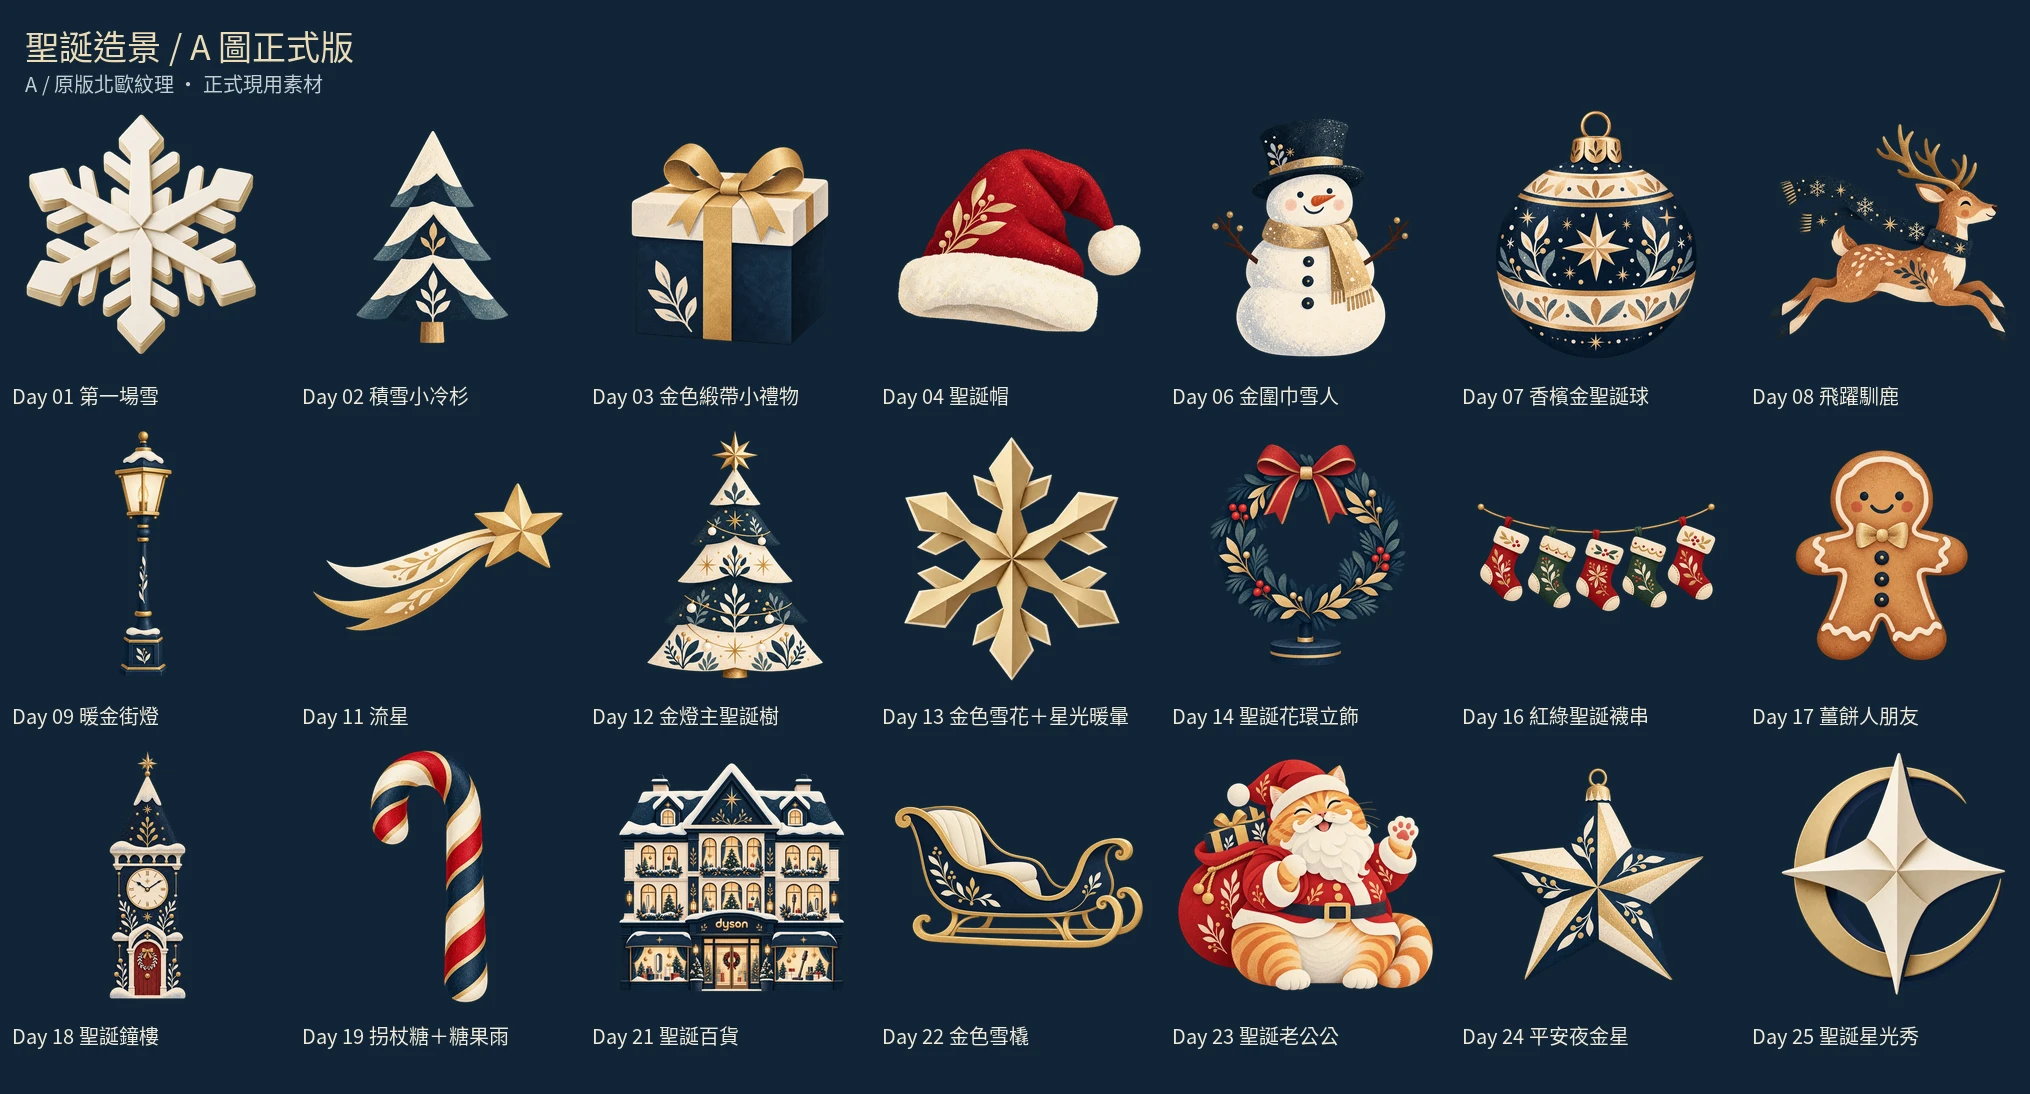
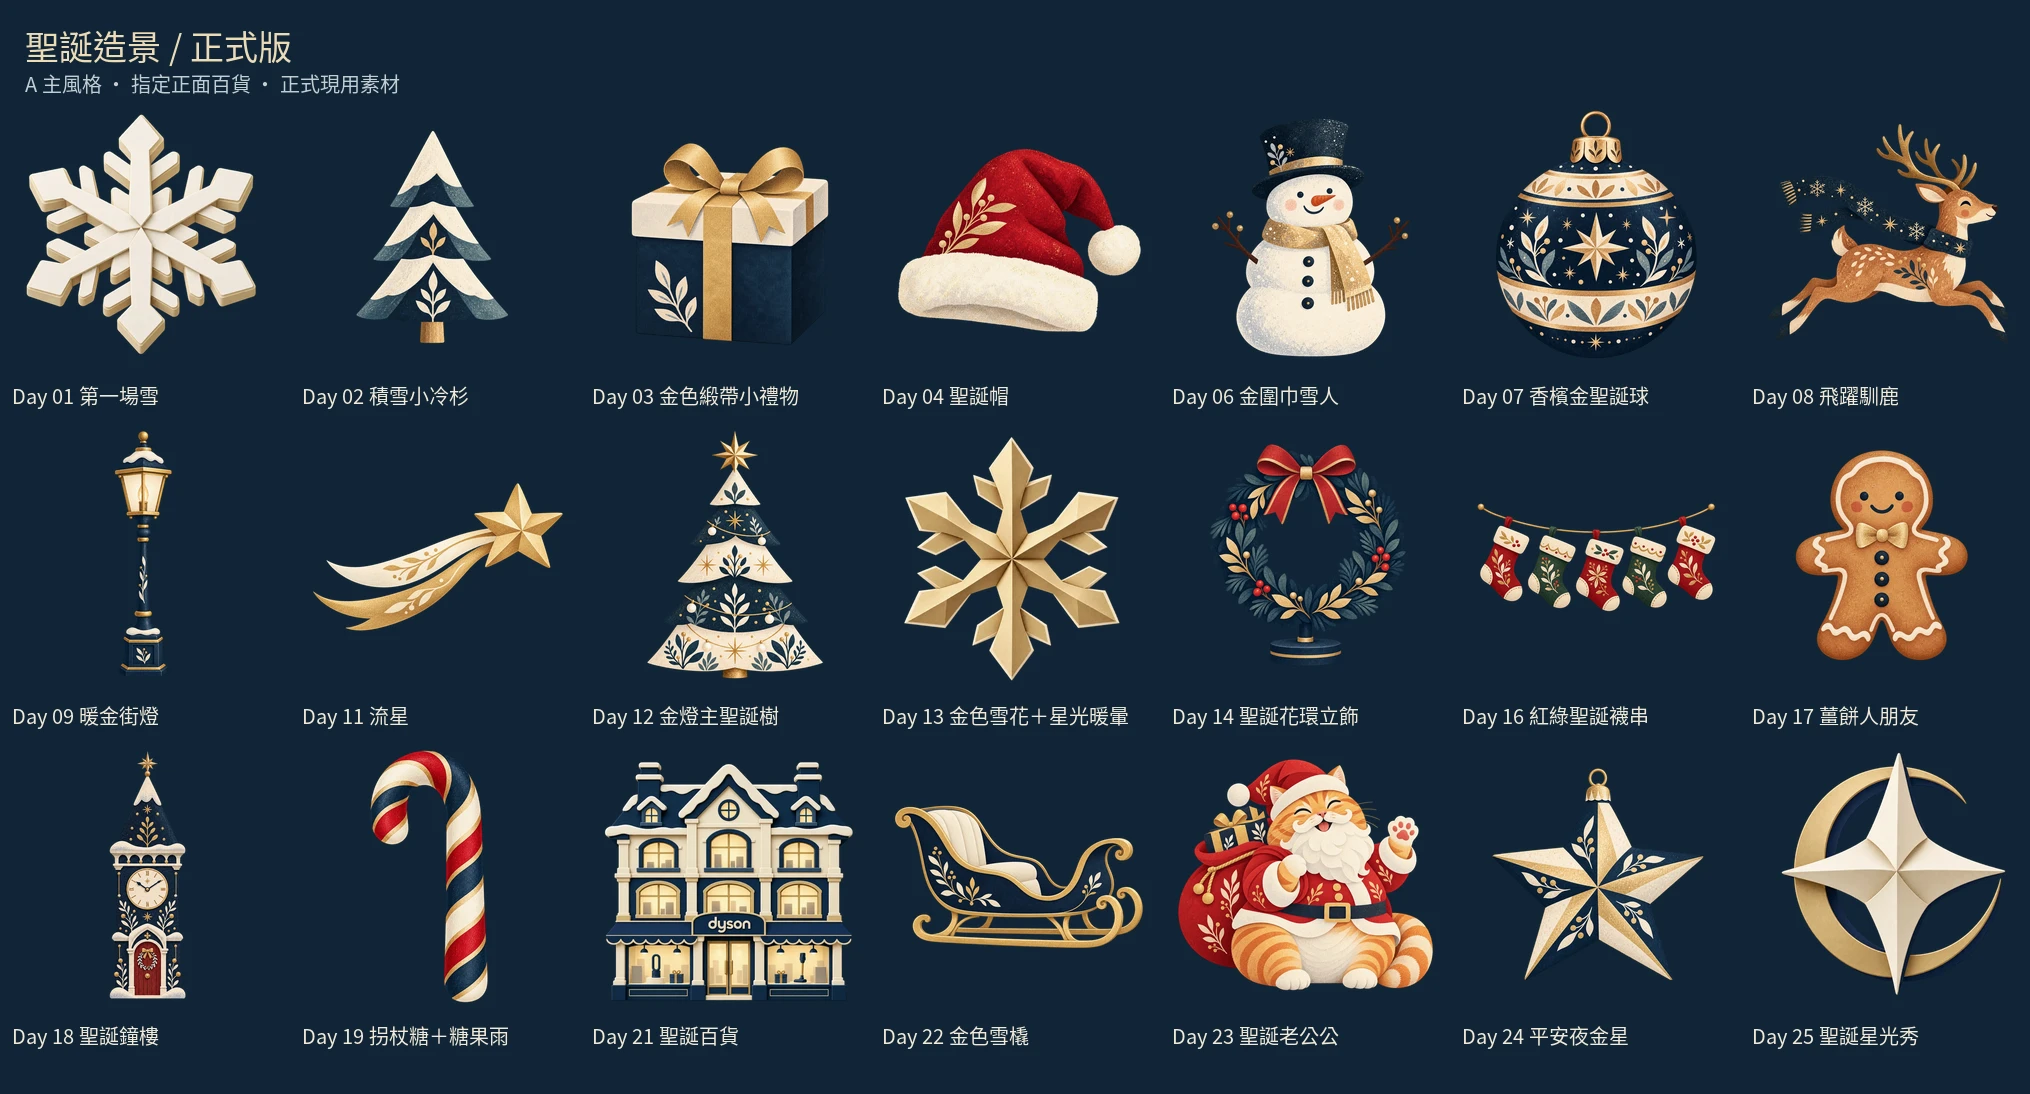
Add files via upload

Changed region(s): [[0.2793, 0.6837, 0.4345, 0.9324], [0.031, 0.0311, 0.1862, 0.0932]]

diff --git a/2026-dyson-christmas/index.html b/2026-dyson-christmas/index.html
@@ -1,6 +1,6 @@
 <!doctype html>
 <html lang="zh-Hant">
-<head><meta charset="utf-8"><meta name="viewport" content="width=device-width,initial-scale=1"><meta name="theme-color" content="#10141c"><title>Dyson 璀璨雪境｜25 日聖誕收藏</title><link rel="stylesheet" href="./assets/css/style.css?v=20261028-white-blue-gold"></head>
+<head><meta charset="utf-8"><meta name="viewport" content="width=device-width,initial-scale=1"><meta name="theme-color" content="#10141c"><title>Dyson 璀璨雪境｜25 日聖誕收藏</title><link rel="stylesheet" href="./assets/css/style.css?v=20261029-simple-store-notices"></head>
 <body>
 <dialog id="welcome-dialog" class="welcome-dialog" aria-labelledby="welcome-title" aria-describedby="welcome-description">
  <div class="welcome-topline"><span class="welcome-label">玩法與雪境靈感</span><button id="welcome-skip" type="button" aria-label="關閉活動介紹">關閉 ×</button></div>
@@ -8,6 +8,7 @@
  <div class="welcome-content"><section id="welcome-progress" class="welcome-progress"><h3 id="welcome-progress-title">留住你的聖誕進度</h3><p>留下 Email，下次回來接續收藏。</p><div id="progress-current" hidden><p>目前使用 <strong id="progress-email-label"></strong></p><button id="progress-switch" type="button">切換 Email</button></div><form id="progress-form" novalidate><label for="progress-email">你的 Email<input id="progress-email" type="email" maxlength="254" autocomplete="email" placeholder="name@example.com"></label><label class="progress-consent"><input id="progress-marketing" type="checkbox"><span>我願意接收 Dyson 優惠與新品資訊（選填）</span></label><p class="card-hint">未填寫也能先體驗。</p><button id="progress-submit" hidden class="gold-button" type="submit">保存</button></form><p id="progress-message" role="status" aria-live="polite"></p><button id="progress-retry" type="button" hidden>重試同步</button></section><div class="welcome-media"><video id="welcome-video" muted playsinline preload="none" aria-label="5 秒玩法介紹與雪境示意"></video><div class="welcome-media-toolbar"><p id="welcome-status" class="welcome-status" role="status" aria-live="polite"></p><button id="welcome-play" type="button" hidden>播放介紹</button></div></div></div>
  <nav class="welcome-guide" aria-label="三步玩法"><ol class="welcome-steps"><li>收藏驚喜</li><li>布置雪境</li><li>傳祝福領優惠</li></ol></nav>
  <details class="welcome-rules"><summary id="welcome-rules-title">活動規則</summary><div class="welcome-rules-content"><p>活動期間為 2026/12/01–12/25，以台灣時間（UTC+8）每日 00:00 換日。可領取當天及之前的禮物，未來日期仍鎖定；活動結束後，已收藏項目仍可回看及重新擺放。</p><p>四款產品各附一份優惠券，收藏即可保留對應優惠。製作卡片並下載或分享一次、填寫 Email 保存進度後，即可領取已達成條件的優惠券；整個活動只需完成一次卡片任務。活動期間累積參與 10 個不同台灣日期，再解鎖 Dyson 全品項折抵 $1,000；不需連續，同日補領多份禮物只算參與一天。</p><p>Email 用於保存與找回活動進度，請確認拼寫正確；本活動不驗證信箱持有人。未填 Email 可先體驗，填寫後按「開始收藏」即可保存。已載入進度後，變更行銷意願會立即保存；勾選行銷意願者，可於活動結束後接收 Dyson 優惠與新品資訊，不影響活動參加。</p><p>優惠內容與使用條件以券面說明為準。</p></div></details>
+ <details id="welcome-notices" class="welcome-rules welcome-notices"><summary id="welcome-notices-title">注意事項</summary><div class="welcome-rules-content"><ol id="activity-notices-list"><li><p>本活動由恆隆行貿易股份有限公司（以下簡稱「主辦單位」）舉辦。參加者一經參與本活動，即視為已詳閱、瞭解並同意遵守本活動辦法、注意事項及相關規範。</p></li><li><p>如因參加者使用之裝置、LINE App 版本、網路連線或其他非可歸責於主辦單位之因素，導致活動頁面、動畫效果、會員綁定或優惠資訊顯示異常，主辦單位恕不另行補發或補償。</p></li><li><p>如因天災、系統異常、政府法令變更或其他不可抗力因素，致本活動無法正常進行，主辦單位得於法令允許範圍內調整、暫停或終止活動，並依實際情況公告相關處理方式。</p></li><li><p>主辦單位保留於法令允許範圍內調整活動內容及相關辦法之權利，相關異動將於活動頁面公告。</p></li><li><p>本活動如有未盡事宜，悉依相關法令、主辦單位活動辦法及最新公告辦理。</p></li></ol></div></details>
  <div class="welcome-footer"><button id="welcome-start" class="gold-button" type="button">開始收藏</button></div>
 </dialog>
 <header class="site-header"><a class="brand" href="#"><img id="brand-logo" class="brand-logo" src="./assets/images/brand/dyson-logo-white.png" alt="Dyson" width="1702" height="591" fetchpriority="high"></a><nav aria-label="功能選單"><button id="progress-open" type="button">讀取進度</button><button id="vouchers-open">我的禮遇 <span id="voucher-count">0</span></button><div class="audio-menu"><button id="audio-open" type="button" aria-expanded="false" aria-controls="audio-panel">音訊<span class="audio-indicator" aria-hidden="true"></span></button>
@@ -72,7 +73,7 @@
 
 
 
-<script src="./assets/js/config.js?v=20261029-style-a-final"></script>
+<script src="./assets/js/config.js?v=20261029-simple-store-notices"></script>
 <script src="./assets/js/analytics.js?v=20261028-white-blue-gold"></script>
 <script src="./assets/js/media-codecs.js"></script>
 <script src="./assets/js/media-mp4.js?v=20261028-white-blue-gold"></script>

diff --git a/2026-dyson-christmas/assets/js/config.js b/2026-dyson-christmas/assets/js/config.js
@@ -8,7 +8,7 @@ window.DYSON_GAME_CONFIG = {
   "holidayAccentRevision": "20261028-white-blue-gold",
   "frontFacingArtworkRevision": "20261028-front-retail",
   "paperSceneryRevision": "20261028-minimal-relief",
-  "version": 61,
+  "version": 62,
   "cardShareUrl": "https://hlh.tw/2026-dyson-christmas",
   "cardShareText": "我把一點雪、一點星光，還有想你的心意，都裝進這顆水晶球了。",
   "visualStyle": "paper-relief-v1",
@@ -346,9 +346,9 @@ window.DYSON_GAME_CONFIG = {
       "day": 21,
       "type": "聖誕造景",
       "name": "聖誕百貨",
-      "description": "Dyson 招牌與暖光櫥窗點亮積雪百貨，為你的聖誕雪境添上一間溫暖的店。",
+      "description": "正面的積雪屋頂與深藍遮棚，搭配 dyson 招牌及暖光展示櫥窗，為你的聖誕雪境添上一間溫暖的百貨。",
       "benefit": null,
-      "assetNeed": "A 款北歐紋理插畫透明 WebP，沿用固定檔名",
+      "assetNeed": "已確認的正面雪屋型百貨透明 WebP，保留 dyson 招牌與簡潔櫥窗",
       "layout": {
         "x": 370,
         "y": 785,
@@ -624,7 +624,7 @@ window.DYSON_GAME_CONFIG = {
   "santaTailRevision": "20261023-santa-tail-v34",
   "penguinRevision": "20261023-soft-penguin-v36",
   "softAnimalsRevision": "20261024-sea-otter-face-v48",
-  "departmentStoreRevision": "20261028-snowy-retail",
+  "departmentStoreRevision": "20261029-simple-store-notices",
   "collectionContentRevision": "20261028-hat-meteor-originals",
   "restoredArtworkRevision": "20261027-uploaded-originals",
   "seasonalArtworkRevision": "20261028-tree-redgreen",
@@ -649,7 +649,10 @@ window.DYSON_GAME_CONFIG = {
     22,
     23,
     24
-  ]
+  ],
+  "artworkOverrides": {
+    "21": "simple-front-snowy-department-store"
+  }
 };
 
 window.DYSON_ASSETS = {
@@ -683,7 +686,7 @@ window.DYSON_ASSETS = {
     "18": "./assets/images/scene/day-18-clock-tower.webp?rev=20261029-style-a-final",
     "19": "./assets/images/scene/day-19-candy-cane.webp?rev=20261029-style-a-final",
     "20": "./assets/images/products/bp10-snowglobe.png",
-    "21": "./assets/images/scene/day-21-department-store.webp?rev=20261029-style-a-final",
+    "21": "./assets/images/scene/day-21-department-store.webp?rev=20261029-simple-store-notices",
     "22": "./assets/images/scene/day-22-golden-sleigh.webp?rev=20261029-style-a-final",
     "23": "./assets/images/scene/day-23-cat-santa.webp?rev=20261029-style-a-final",
     "24": "./assets/images/scene/day-24-christmas-star.webp?rev=20261029-style-a-final"

diff --git a/2026-dyson-christmas/assets/css/style.css b/2026-dyson-christmas/assets/css/style.css
@@ -511,3 +511,6 @@ button,input,textarea,select{line-height:1.5}
 
 /* v48: visible capture surface for the prepared-frame MP4 compatibility path. */
 .card-recording-preview{width:90px;height:150px;max-height:20vh;object-fit:contain;border-radius:6px;flex:none}
+
+/* Activity notice text shares the existing scrollable introduction dialog. */
+.welcome-notices ol{margin:0;padding-left:1.6em}.welcome-notices li{padding-left:.2em;color:#b9c2cf}.welcome-notices li+li{margin-top:12px}.welcome-notices li p{margin:0;overflow-wrap:anywhere}.welcome-notices li::marker{font-size:14px}

diff --git a/2026-dyson-christmas/README.md b/2026-dyson-christmas/README.md
@@ -1,20 +1,20 @@
-# 2026 Dyson 聖誕收藏 · v61 A 圖正式版
+# 2026 Dyson 聖誕收藏 · v62 A 圖正式版 · 指定百貨與注意事項
 
-18 個造景固定採用已確認的 A「原版北歐紋理」，包含飛躍馴鹿及橘貓聖誕老公公。一般活動頁直接顯示 A 圖；本包不含 A/B 比較入口、按鈕、程式或 B 圖資料夾。
+17 個造景採用已確認的 A「原版北歐紋理」，包含飛躍馴鹿及橘貓聖誕老公公；Day 21 百貨依指定參考改為簡潔正面雪屋型。活動介紹新增完整五點「注意事項」，可展開閱讀。一般活動頁直接顯示 A 圖；本包不含 A/B 比較入口、按鈕、程式或 B 圖資料夾。
 
 ## 更新正式活動
 
 完整包：將 `2026-dyson-christmas/` 內容放入原本 GitHub 的 `campaigns/2026-dyson-christmas/`。
 
-差異包：覆蓋同一活動資料夾內的同名檔案即可。圖片、`assets/js/config.js`、`assets/js/app.js` 及 `index.html` 必須一起更新，才能同步更新瀏覽圖、詳情圖與球內圖片。
+本次 v62 差異包適用 v61：覆蓋同一活動資料夾內的同名檔案即可。尚未套用 v61 者請使用完整包。圖片、`assets/js/config.js`、`assets/js/app.js` 及 `index.html` 必須一起更新，才能同步更新瀏覽圖、詳情圖與球內圖片。
 
-全部圖片沿用固定 WebP 檔名，不增加 vxxx 字尾。網址查詢參數更新瀏覽器快取，18 個造景的過期自訂圖片會自動略過。已收藏項目、擺放位置、縮放、Email 與正式進度保留。新版之後上傳的自訂圖仍可正常保存。
+全部圖片沿用固定 WebP 檔名，不增加 vxxx 字尾。網址查詢參數更新瀏覽器快取，本次百貨的過期自訂圖片會自動略過，其他 A 圖延續 v61 的識別。已收藏項目、擺放位置、縮放、Email 與正式進度保留。新版之後上傳的自訂圖仍可正常保存。
 
 四款 Dyson 產品、十款額外動物、三款效果縮圖、動態特效、水晶球背景、Logo、音樂、影片、字型、GA4 與雲端服務沿用正式版。Apps Script 不變，不需要執行 setup。
 
 ## 檢查與素材
 
-- `SCENE-PREVIEW.webp`：18 個 A 圖與 3 個既有效果縮圖。
+- `SCENE-PREVIEW.webp`：17 個 A 圖、1 個指定百貨與 3 個既有效果縮圖。
 - `PREVIEW.webp`：全部 35 個收藏的現用圖片。
 - `ASSET-MANIFEST.json`：48 個現用媒體的大小及 SHA-256。
 - `PROMPTS.json`：A 圖來源與可追溯提示詞。

diff --git a/2026-dyson-christmas/REVIEW.md b/2026-dyson-christmas/REVIEW.md
@@ -1,13 +1,12 @@
-# v61 A 圖正式版驗證
+# v62 驗證
 
-- 18 個正式造景的檔案 SHA-256，全部等於已確認的 A/B 比較包 A 圖，含 Day 23 聖誕老公公。
-- 使用正式程式的 loadSprite / drawSprite / drawThumbnail 繪製全部 35 個縮圖，均非空白。
-- 18 個 Day 的舊自訂快取會略過；具有目前 finalArtworkRevision 的新自訂圖正常載入。
-- 產品與額外動物的自訂圖片保留；未清空資料庫，也未更動正式進度的資料模型。
-- 圖片固定檔名、URL 快取參數與 index.html 的程式快取識別一致。
-- 48 個現用媒體、38 個現用圖片來源；缺圖、未登記媒體及素材 SHA-256 檢查通過。
-- 四款產品、十款額外動物、三款效果縮圖及其餘媒體與 v59 完全相同。
-- 新正式包沒有 A/B 入口、切換程式、按鈕或候選圖片資料夾。
-- JavaScript 語法檢查通過；本次程式未部署，沒有對正式 Google Sheet 或 GA 發出測試資料。
+- 百貨圖與指定參考同款的原始透明 WebP 完全一致；維持原始透明度，未使用帶背景截圖。
+- 其餘 17 張 A 圖、產品、額外動物、效果圖片與其他媒體均與 v61 位元組一致。
+- 使用正式繪製函式繪製 35 個縮圖，均非空白。
+- 新百貨 departmentStoreRevision 可略過舊百貨自訂圖；新的自訂圖、產品與動物圖片保留。
+- HTML 內五點注意事項逐字比對使用者提供文字，段落、標點與順序一致。
+- 網站預覽已實際開啟活動介紹並展開「注意事項」，五點完整顯示，桌面無橫向溢出；沒有新增需要勾選的操作步驟。
+- 現用 48 個媒體與 38 個圖片來源的缺圖、SHA-256、未登記媒體檢查通過。
+- app.js 與 v61 完全一致。收藏進度、位置、特效、卡片功能、GA 設定與 Apps Script 未變更。
 
-驗證使用正式程式的圖片繪製函式及模擬 IndexedDB 記錄。不是完整瀏覽器端到端測試；實際上線畫面與正式 GA 接收仍需部署後確認。
+本次已檢查注意事項在桌面瀏覽器中的展開呈現；未另外宣稱完成全部裝置或所有活動流程測試。GitHub 正式網站尚未代為部署。

diff --git a/2026-dyson-christmas/UPDATE.md b/2026-dyson-christmas/UPDATE.md
@@ -1,10 +1,8 @@
-# v61 正式採用 A 圖
+# v62 百貨與活動注意事項
 
-- Day 02、03、04、06、07、08、09、11、12、14、16、17、18、19、21、22、23、24：沿用 A/B 比較頁已選定的 A 圖。
-- 正式頁直接載入 A 圖，同步用於瀏覽圖、詳情及水晶球，不含比較功能。
-- 固定檔名覆蓋；更新 config.js 與 app.js 的網址快取參數。
-- 新增針對上述 18 個 Day 的圖片快取識別。僅略過過期圖，不更動產品、額外動物、收藏位置與進度。
-- 文字中原有不適用的「紙雕」描述，改為對應圖像的節慶說明。
-- 更新兩張預覽圖、素材清單與正式部署說明。
+- Day 21 聖誕百貨：改用指定的正面雪屋型版本，積雪山牆、米白立面、深藍遮棚、暖光展示櫥窗與 dyson 招牌。沿用原始透明 WebP，不使用截圖背景。
+- 活動介紹：在活動規則下方新增可展開的「注意事項」，完整放入提供的五點文字。
+- 圖片固定檔名不變；更新百貨自訂圖片識別、圖片網址快取、config.js 與 CSS 快取。
+- 其餘 17 個造景延續 A 圖，收藏、位置、縮放、產品、額外動物、特效、音訊、GA 與 Apps Script 沿用 v61。
 
-來源為目前保存的 v59 正式程式。v60 的鐘樓、流星、拐杖糖圖片在此由最終選定的 A 圖取代。活動規則、產品日程、音樂與特效程式沒有另作變更。
+差異包適用 v61，覆蓋相同活動資料夾內的同名檔案即可。較舊版本或尚未套用 A 圖者可使用完整包。此包不含 A/B 比較功能，尚未代為上傳 GitHub。

diff --git a/2026-dyson-christmas/ASSET-NOTES.md b/2026-dyson-christmas/ASSET-NOTES.md
@@ -1,7 +1,9 @@
 # 現用素材
 
-正式造景使用 A「原版北歐紋理」，共 18 張透明 WebP，含橘貓聖誕老公公。直接覆蓋 assets/images/scene/ 的原有檔名。
+正式造景使用 A「原版北歐紋理」，共 17 張 A 款透明 WebP（含橘貓聖誕老公公）與 1 張依指定參考恢復的正面雪屋型百貨。直接覆蓋 assets/images/scene/ 的原有檔名。
 
 3 張效果縮圖、水晶球背景、4 款產品、10 款額外動物及 2 張 Logo 沿用原素材，沒有增加候選款或備援圖集。所有瀏覽圖、詳情圖與球內繪製共用相同來源。
 
 finalArtworkRevision 用於辨識舊自訂圖片；之後新上傳的自訂素材會記錄目前識別並正常保留。不清空 IndexedDB 或使用者進度。
+
+Day 21 使用先前完成的原始透明圖，並更新 departmentStoreRevision；圖片保留原檔名，不會帶入參考截圖的深藍底色。
